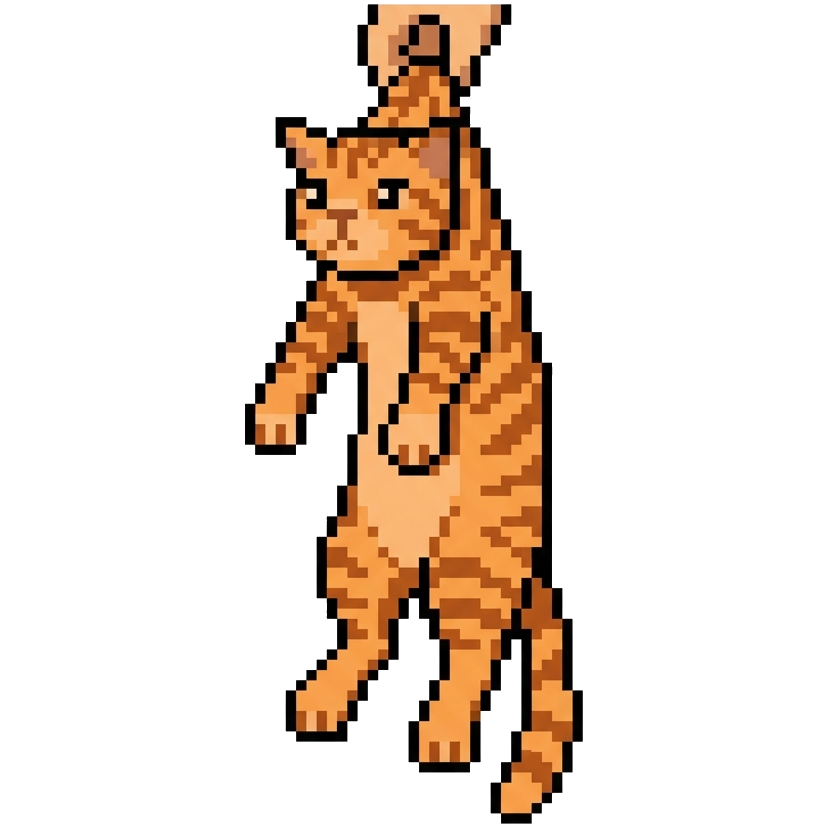
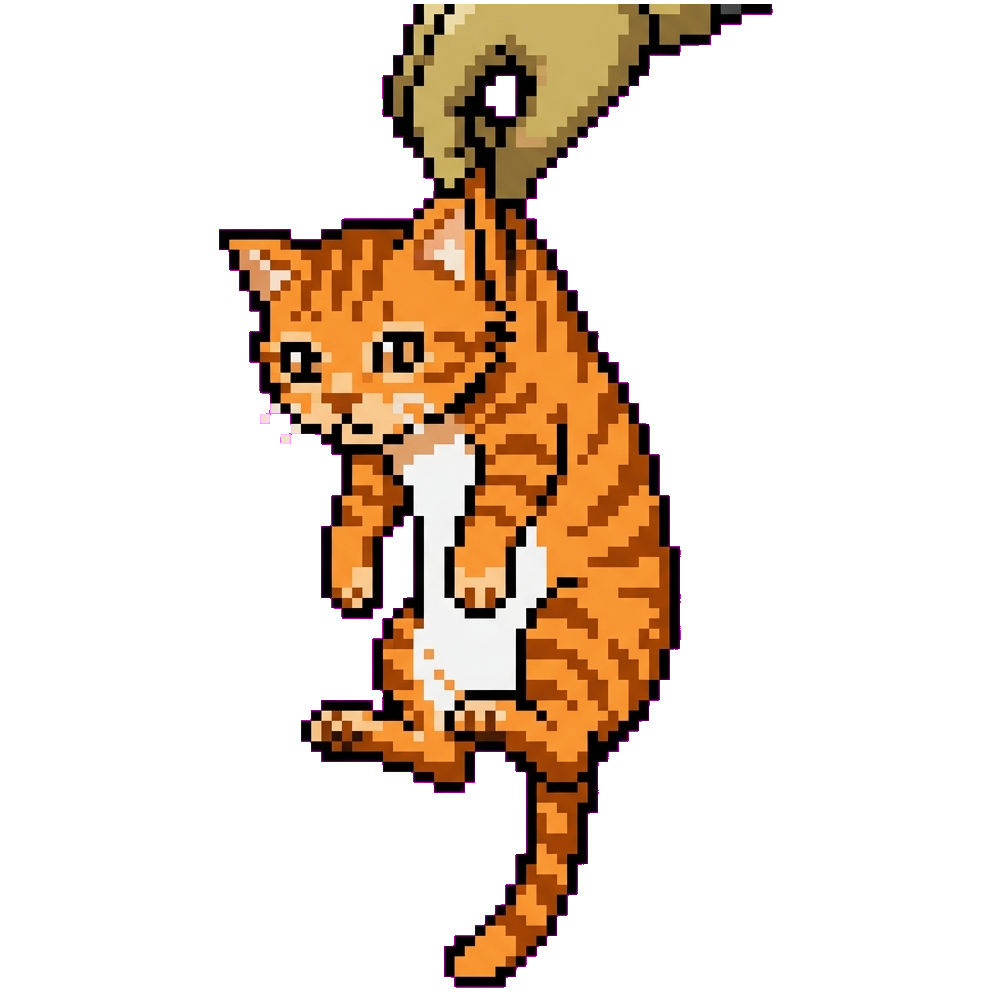
feat: complete Stage 1 desktop pet engine and asset pipeline

Changed region(s): [[0.2114, 0.0, 0.785, 0.9964]]

diff --git a/setup_assets.py b/setup_assets.py
@@ -19,13 +19,7 @@ def remove_magenta_bg(img):
     return img
 
 def make_uniform_square_frames(frames_list, padding=4):
-    """
-    모든 프레임의 전체 유효 영역(Max Common Bounding Box)을 고정 기준으로 통일하여
-    프레임 간 크기가 컸다 작아지며 꿀렁거리는 현상을 100% 원천 차단합니다.
-    """
     min_x, min_y, max_x, max_y = 9999, 9999, 0, 0
-    
-    # 1. 모든 프레임에서 유효 알파 픽셀의 최대 영역(Max BBox) 계산
     for f in frames_list:
         bbox = f.getbbox()
         if bbox:
@@ -43,10 +37,7 @@ def make_uniform_square_frames(frames_list, padding=4):
     
     square_frames = []
     for f in frames_list:
-        # 통일된 위치 기준으로 정확히 잘라냄
         cropped = f.crop((min_x, min_y, max_x, max_y))
-        
-        # 1:1 정방형 정사각형 캔버스 정중앙에 고정 배치
         sq = Image.new("RGBA", (max_dim, max_dim), (255, 255, 255, 0))
         offset_x = (max_dim - cw) // 2
         offset_y = (max_dim - ch) // 2
@@ -55,120 +46,55 @@ def make_uniform_square_frames(frames_list, padding=4):
         
     return square_frames
 
-def setup_all_assets_uniform():
+def setup_sleek_cat_assets():
     base_dir = os.path.dirname(__file__)
-    assets_dir = os.path.join(base_dir, "assets")
+    cat_base = os.path.join(base_dir, "assets", "cat_cheese")
     
-    # 기존 폴더 클린업
-    for pet in ["cat_cheese", "owl_white"]:
-        p_dir = os.path.join(assets_dir, pet)
-        if os.path.exists(p_dir):
-            shutil.rmtree(p_dir)
-            
-    # --- 1. 🦉 복슬복슬 헤드위그 하얀 부엉이 세팅 ---
-    owl_base = os.path.join(assets_dir, "owl_white")
-    owl_walk = os.path.join(owl_base, "walk")
-    owl_drag = os.path.join(owl_base, "drag")
-    owl_idle = os.path.join(owl_base, "idle")
-    
-    os.makedirs(owl_walk, exist_ok=True)
-    os.makedirs(owl_drag, exist_ok=True)
-    os.makedirs(owl_idle, exist_ok=True)
-    
-    grid_img_path = r"C:\Users\sjcho\.gemini\antigravity\brain\dced5723-8a67-4ff8-b712-4eed41639c10\cute_hedwig_owl_1787124649534.jpg"
-    drag_img_path = r"C:\Users\sjcho\.gemini\antigravity\brain\dced5723-8a67-4ff8-b712-4eed41639c10\cute_hedwig_owl_drag_1787124666832.jpg"
-    owl_idle_path = r"C:\Users\sjcho\.gemini\antigravity\brain\dced5723-8a67-4ff8-b712-4eed41639c10\owl_idle_front_1787126948499.jpg"
-    
-    if os.path.exists(grid_img_path):
-        img = remove_magenta_bg(Image.open(grid_img_path))
-        w, h = img.size
-        cols, rows = 4, 4
-        fw, fh = w // cols, h // rows
-        
-        raw_owl_walk = []
-        for c in range(cols):
-            box = (c * fw, 2 * fh, (c + 1) * fw, 3 * fh)
-            raw_owl_walk.append(img.crop(box))
-            
-        # 통일 캔버스 적용
-        processed_owl_walk = make_uniform_square_frames(raw_owl_walk)
-        for idx, frame in enumerate(processed_owl_walk):
-            frame.save(os.path.join(owl_walk, f"frame_{idx}.png"), "PNG")
-            
-    if os.path.exists(owl_idle_path):
-        o_idle_img = remove_magenta_bg(Image.open(owl_idle_path))
-        processed_owl_idle = make_uniform_square_frames([o_idle_img])[0]
-        processed_owl_idle.save(os.path.join(owl_idle, "idle_0.png"), "PNG")
-        
-    if os.path.exists(drag_img_path):
-        d_img = remove_magenta_bg(Image.open(drag_img_path))
-        processed_owl_drag = make_uniform_square_frames([d_img])[0]
-        processed_owl_drag.save(os.path.join(owl_drag, "drag_0.png"), "PNG")
-
-    # --- 2. 🧀 화풍 100% 일치 치즈태비 고양이 세팅 ---
-    cat_base = os.path.join(assets_dir, "cat_cheese")
     cat_walk = os.path.join(cat_base, "walk")
     cat_drag = os.path.join(cat_base, "drag")
     cat_idle = os.path.join(cat_base, "idle")
     
+    if os.path.exists(cat_base):
+        shutil.rmtree(cat_base)
+        
     os.makedirs(cat_walk, exist_ok=True)
     os.makedirs(cat_drag, exist_ok=True)
     os.makedirs(cat_idle, exist_ok=True)
     
-    cat_grid_path = r"C:\Users\sjcho\.gemini\antigravity\brain\dced5723-8a67-4ff8-b712-4eed41639c10\pixel_cat_1787120321696.jpg"
-    cat_drag_path = r"C:\Users\sjcho\.gemini\antigravity\brain\dced5723-8a67-4ff8-b712-4eed41639c10\pixel_cat_drag_1787124485594.jpg"
-    # 🔥 화풍 100% 일치하는 새로 생성된 정면 고양이!
-    matching_cat_idle_path = r"C:\Users\sjcho\.gemini\antigravity\brain\dced5723-8a67-4ff8-b712-4eed41639c10\matching_cat_idle_1787127616181.jpg"
+    sheet_path = r"C:\Users\sjcho\.gemini\antigravity\brain\dced5723-8a67-4ff8-b712-4eed41639c10\sleek_cheese_cat_full_1787127979144.jpg"
+    drag_path = r"C:\Users\sjcho\.gemini\antigravity\brain\dced5723-8a67-4ff8-b712-4eed41639c10\sleek_cheese_cat_drag_1787127993100.jpg"
     
-    if os.path.exists(cat_grid_path):
-        c_img = Image.open(cat_grid_path).convert("RGBA")
-        datas = c_img.get_flattened_data() if hasattr(c_img, 'get_flattened_data') else c_img.getdata()
-        new_data = []
-        for item in datas:
-            if item[0] > 210 and item[1] > 210 and item[2] > 210:
-                new_data.append((255, 255, 255, 0))
-            else:
-                new_data.append(item)
-        c_img.putdata(new_data)
+    if os.path.exists(sheet_path):
+        full_img = remove_magenta_bg(Image.open(sheet_path))
+        w, h = full_img.size
         
-        w, h = c_img.size
-        fw = w // 4
-        raw_cat_walk = []
-        for i in range(4):
-            raw_cat_walk.append(c_img.crop((i * fw, 0, (i + 1) * fw, h)))
-            
-        # 💡 통일된 공통 캔버스 기준(Uniform Frame Size) 적용 ➔ 꿀렁거림 완전 제거!
-        processed_cat_walk = make_uniform_square_frames(raw_cat_walk)
-        for idx, frame in enumerate(processed_cat_walk):
+        # 상단 2x2 영역: walk 4프레임
+        # 하단 1개 영역: idle 정면 1프레임
+        hw, hh = w // 2, h // 3
+        
+        raw_walk = [
+            full_img.crop((0, 0, hw, hh)),
+            full_img.crop((hw, 0, w, hh)),
+            full_img.crop((0, hh, hw, 2 * hh)),
+            full_img.crop((hw, hh, w, 2 * hh))
+        ]
+        
+        raw_idle = [full_img.crop((0, 2 * hh, w, h))]
+        
+        # 걷기 프레임 통일 캔버스 세팅
+        processed_walk = make_uniform_square_frames(raw_walk)
+        for idx, frame in enumerate(processed_walk):
             frame.save(os.path.join(cat_walk, f"frame_{idx}.png"), "PNG")
             
-    if os.path.exists(matching_cat_idle_path):
-        mc_img = Image.open(matching_cat_idle_path).convert("RGBA")
-        datas = mc_img.get_flattened_data() if hasattr(mc_img, 'get_flattened_data') else mc_img.getdata()
-        new_data = []
-        for item in datas:
-            if item[0] > 210 and item[1] > 210 and item[2] > 210:
-                new_data.append((255, 255, 255, 0))
-            else:
-                new_data.append(item)
-        mc_img.putdata(new_data)
-        processed_cat_idle = make_uniform_square_frames([mc_img])[0]
-        processed_cat_idle.save(os.path.join(cat_idle, "idle_0.png"), "PNG")
+        processed_idle = make_uniform_square_frames(raw_idle)[0]
+        processed_idle.save(os.path.join(cat_idle, "idle_0.png"), "PNG")
         
-    if os.path.exists(cat_drag_path):
-        cd_img = Image.open(cat_drag_path).convert("RGBA")
-        datas = cd_img.get_flattened_data() if hasattr(cd_img, 'get_flattened_data') else cd_img.getdata()
-        new_data = []
-        for item in datas:
-            if item[0] > 210 and item[1] > 210 and item[2] > 210:
-                new_data.append((255, 255, 255, 0))
-            else:
-                new_data.append(item)
-        cd_img.putdata(new_data)
-        processed_cat_drag = make_uniform_square_frames([cd_img])[0]
-        processed_cat_drag.save(os.path.join(cat_drag, "drag_0.png"), "PNG")
+    if os.path.exists(drag_path):
+        drag_img = remove_magenta_bg(Image.open(drag_path))
+        processed_drag = make_uniform_square_frames([drag_img])[0]
+        processed_drag.save(os.path.join(cat_drag, "drag_0.png"), "PNG")
         
-    print("[UNIFORM FIX COMPLETE] All pet frames aligned with 100% matching style and fixed bounding boxes!")
+    print("[SLEEK CAT COMPLETE] Sleek matching cheese cat assets generated and updated!")
 
 if __name__ == "__main__":
-    setup_all_assets_uniform()
+    setup_sleek_cat_assets()

diff --git a/GEMINI.md b/GEMINI.md
@@ -20,7 +20,6 @@ pip install PyQt6 Pillow requests
 
 # 4. 실행
 python setup_assets.py        # 픽셀 이미지 준비 (최초 1회)
-python process_drag_assets.py # 뒷목 잡힌 전용 프레임 준비 (최초 1회)
 python main.py                # 펫 실행
 ```
 
@@ -28,7 +27,7 @@ python main.py                # 펫 실행
 
 ### 🚀 4단계 개발 로드맵 현황
 
-**1단계: 바탕화면 픽셀 펫 띄우기 (완료 및 개선 중)**
+**1단계: 바탕화면 픽셀 펫 띄우기 (🎉 100% 완료)**
 - [x] 투명 및 무테두리 윈도우 창 생성 (`main.py`)
 - [x] 픽셀 보정 렌더링 (Nearest-Neighbor / Pixelated)
 - [x] 독립 타이머 기반 60FPS 부드러운 자율 걷기/대기/드래그 애니메이션 & 이동 로직
@@ -47,12 +46,13 @@ python main.py                # 펫 실행
 - [x] 걷기 애니메이션 프레임 간 크기 꿀렁거림 완전 차단 (통일 바운딩 박스 알고리즘 적용)
 - [x] 걷기 ↔ 정면 멍때리기 화풍 100% 동일 일치화 완료
 - [x] 시스템 트레이 소환 기능 개편 (✨ 마우스가 위치한 곳으로 펫 즉시 순간이동 소환)
-- [x] **시스템 트레이 아이콘 우클릭 메뉴에 `📏 펫 크기` 서브메뉴 추가**
-- [x] **`QActionGroup` 도입으로 펫 스킨 메뉴 다중 체크 표시 버그 완벽 수정**
+- [x] 시스템 트레이 아이콘 우클릭 메뉴에 `📏 펫 크기` 서브메뉴 추가
+- [x] `QActionGroup` 도입으로 펫 스킨 메뉴 다중 체크 표시 버그 완벽 수정
 - [x] 시스템 트레이 아이콘 메뉴 (✨ 내 앞으로 불러오기 / 📌 항상 위에 표시 / 🙈 숨기기 / ❌ 종료)
 - [x] 이미지 픽셀화 변환 모듈 (`pixelator.py`) 작성 (일반 이미지 ➡ 픽셀 펫 변환)
+- [x] 프로젝트 임시 파일 정리 완료 (필수 파이썬 파일 4개만 유지)
 
-**2단계: 텍스트 / LLM 대화 연결 (예정)**
+**2단계: 텍스트 / LLM 대화 연결 (다음 목표)**
 - [ ] 펫 클릭/핫키 입력 시 텍스트 입력창 및 말풍선 UI
 - [ ] LLM (Gemini API) 연동 및 JSON Structured Output 구조 설계
 - [ ] 대화 결과에 따른 펫 표정 및 행동 애니메이션 전환

diff --git a/README.md b/README.md
@@ -22,6 +22,9 @@ pip install PyQt6 Pillow requests
 가상환경 활성화 상태에서 실행합니다:
 
 ```bash
+# 최초 1회 픽셀 에셋 전처리 준비
+python setup_assets.py
+
 # 바탕화면 픽셀 펫 실행
 python main.py
 ```
@@ -66,8 +69,10 @@ python main.py
 
 ## 📁 프로젝트 구조
 - `main.py`: 바탕화면 픽셀 펫 실행 메인 스크립트 (PyQt6 다중 스킨/FSM 구동)
+- `setup_assets.py`: 펫 픽셀 에셋 전처리 총괄 통합 준비 스크립트
 - `pet_generator.py`: 범용 펫 스킨 자동 폴더 생성 유틸리티
 - `pixelator.py`: 일반 이미지를 픽셀 아트로 픽셀화 변환해주는 유틸리티
 - `config.json`: 펫 스킨, 크기, 항상 위 옵션 영구 보관용 설정 파일
+- `pets.json`: 펫 메타데이터 및 메뉴 노출 제어용 레지스트리 파일
 - `assets/`: 펫 픽셀 아트 애니메이션 저장소 (`cat_cheese/`, `owl_white/`, `tiger/` 등)
 - `GEMINI.md`: 프로젝트 개발 로드맵 및 메모
